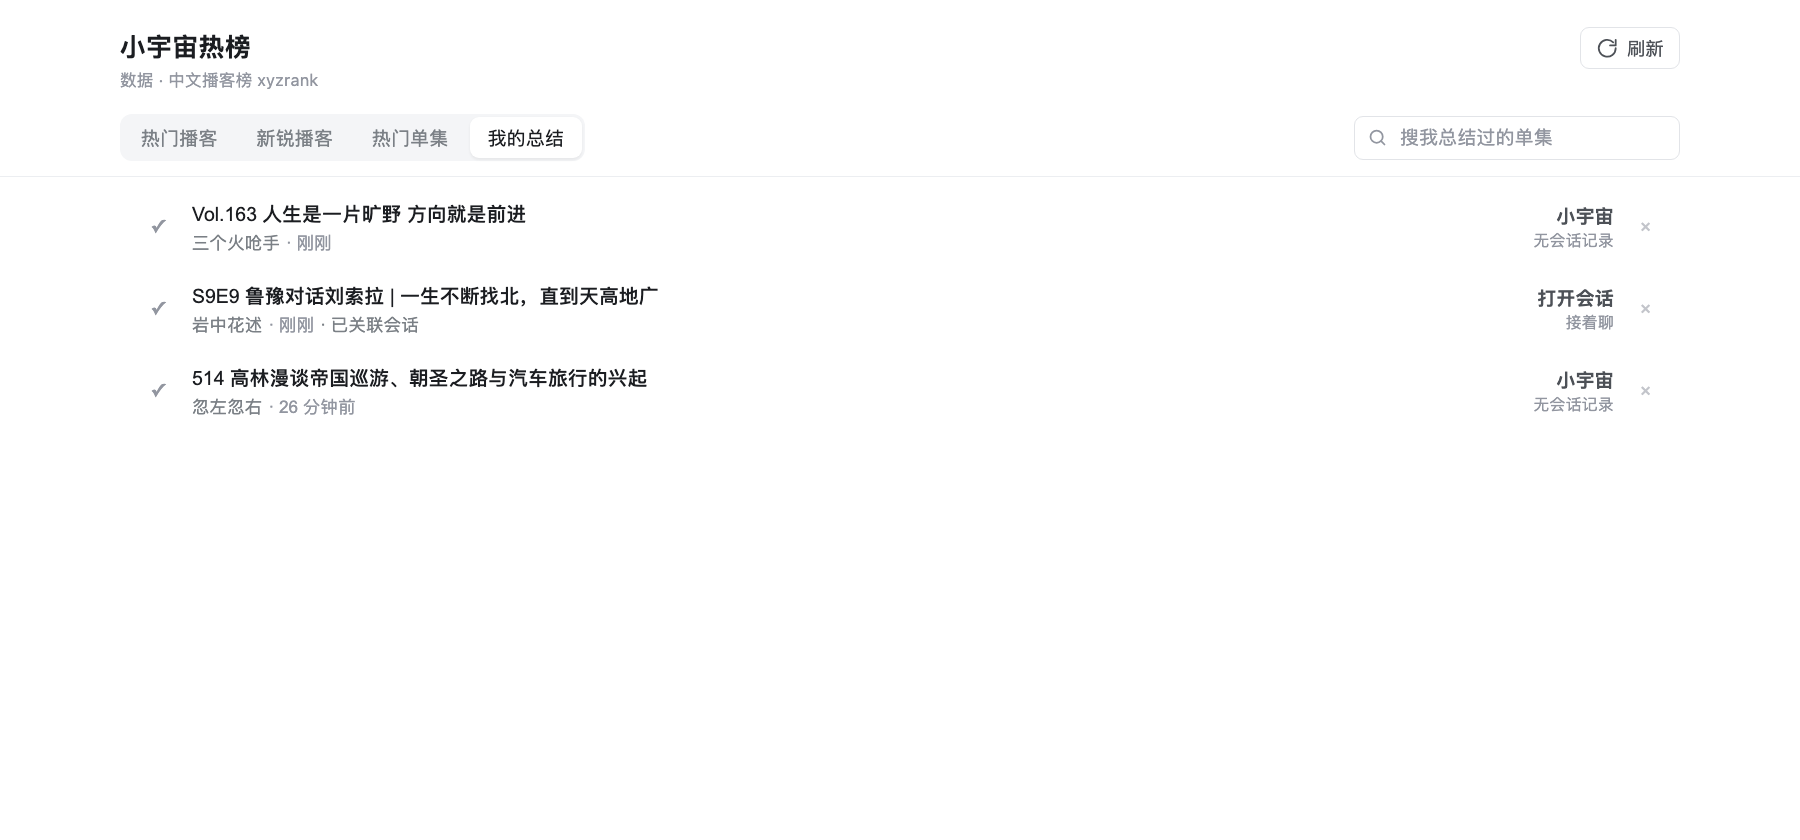
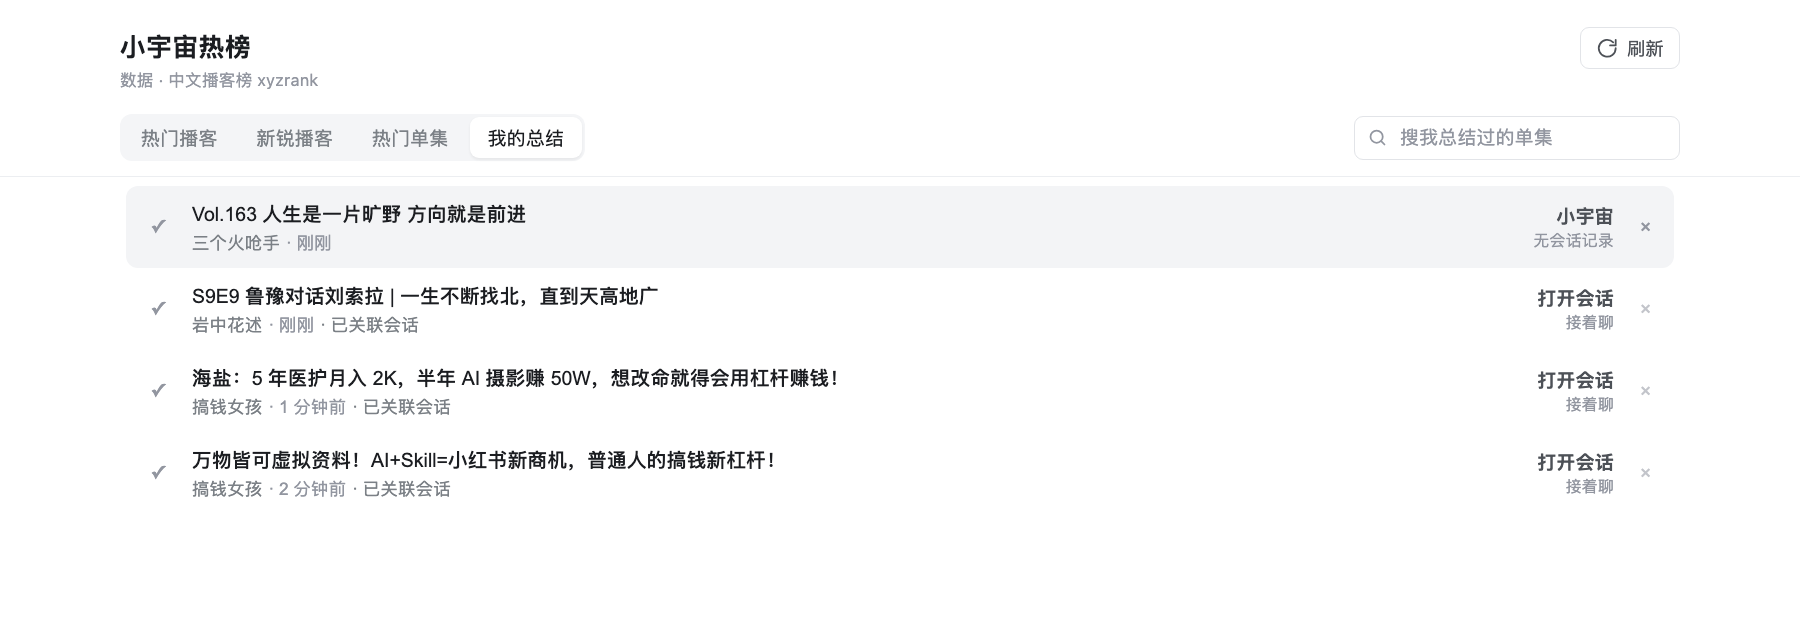
fix(ui): stop native tooltips from covering row hover controls
Rows carried a title attribute, so hovering anywhere over a row (including over the
remove/open icons at the right edge) popped a browser tooltip on top of those icons.
Keep the full-text tooltip on the truncated title span only, and move the rest to
aria-label so keyboard/screen-reader users still get the description.

diff --git a/lib/client.js b/lib/client.js
@@ -155,11 +155,11 @@ function ChannelView({ podcast, data, loading, error, onBack, onRetry, summarize
             type: "button",
             className: "xzr-row",
             onClick: () => summarize({ ...ep, author: podcast?.title ?? data?.title ?? "" }, podcast),
-            title: `\u65B0\u5F00 DSH \u4F1A\u8BDD\u603B\u7ED3:${ep.title}`,
+            "aria-label": `\u65B0\u5F00 DSH \u4F1A\u8BDD\u603B\u7ED3:${ep.title}`,
             children: [
               /* @__PURE__ */ (0, import_jsx_runtime.jsx)("span", { className: "xzr-rank", children: index + 1 }),
               /* @__PURE__ */ (0, import_jsx_runtime.jsxs)("span", { className: "xzr-main", children: [
-                /* @__PURE__ */ (0, import_jsx_runtime.jsx)("span", { className: "xzr-title", children: ep.title }),
+                /* @__PURE__ */ (0, import_jsx_runtime.jsx)("span", { className: "xzr-title", title: ep.title, children: ep.title }),
                 /* @__PURE__ */ (0, import_jsx_runtime.jsxs)("span", { className: "xzr-sub", children: [
                   typeof isDone === "function" && isDone(ep) ? /* @__PURE__ */ (0, import_jsx_runtime.jsx)("span", { className: "xzr-done", children: "\u2713 \u5DF2\u603B\u7ED3" }) : null,
                   formatDay(ep.pubDate) || "\u2014",
@@ -182,7 +182,6 @@ function ChannelView({ podcast, data, loading, error, onBack, onRetry, summarize
             type: "button",
             className: "xzr-ext",
             onClick: () => openExternal(ep.url),
-            title: "\u5728\u5C0F\u5B87\u5B99\u6253\u5F00\u8FD9\u4E00\u96C6",
             "aria-label": "\u5728\u5C0F\u5B87\u5B99\u6253\u5F00\u8FD9\u4E00\u96C6",
             children: /* @__PURE__ */ (0, import_jsx_runtime.jsxs)("svg", { width: "13", height: "13", viewBox: "0 0 24 24", fill: "none", stroke: "currentColor", strokeWidth: "2", strokeLinecap: "round", strokeLinejoin: "round", "aria-hidden": "true", children: [
               /* @__PURE__ */ (0, import_jsx_runtime.jsx)("path", { d: "M14 4h6v6" }),
@@ -507,12 +506,12 @@ function HotPanel({ summarize, openExternal, sessionIds, watchNewSession, openSe
             type: "button",
             className: "xzr-row",
             onClick: () => isEpisode ? summarizeEpisode(item) : openChannel(item),
-            title: isEpisode ? `\u65B0\u5F00 DSH \u4F1A\u8BDD\u603B\u7ED3:${item.title}` : `\u770B ${item.title} \u7684\u5206\u96C6\u5217\u8868`,
+            "aria-label": isEpisode ? `\u65B0\u5F00 DSH \u4F1A\u8BDD\u603B\u7ED3:${item.title}` : `\u770B ${item.title} \u7684\u5206\u96C6\u5217\u8868`,
             children: [
               /* @__PURE__ */ (0, import_jsx_runtime2.jsx)("span", { className: `xzr-rank${item.rank <= 3 ? ` is-top is-${item.rank}` : ""}`, children: item.rank }),
               item.logo ? /* @__PURE__ */ (0, import_jsx_runtime2.jsx)("img", { className: "xzr-logo", src: item.logo, alt: "", loading: "lazy", referrerPolicy: "no-referrer" }) : /* @__PURE__ */ (0, import_jsx_runtime2.jsx)("span", { className: "xzr-logo xzr-logo-empty" }),
               /* @__PURE__ */ (0, import_jsx_runtime2.jsxs)("span", { className: "xzr-main", children: [
-                /* @__PURE__ */ (0, import_jsx_runtime2.jsx)("span", { className: "xzr-title", children: item.title }),
+                /* @__PURE__ */ (0, import_jsx_runtime2.jsx)("span", { className: "xzr-title", title: item.title, children: item.title }),
                 /* @__PURE__ */ (0, import_jsx_runtime2.jsxs)("span", { className: "xzr-sub", children: [
                   libraryIndex.has(keyOf(item)) ? /* @__PURE__ */ (0, import_jsx_runtime2.jsx)("span", { className: "xzr-done", children: "\u2713 \u5DF2\u603B\u7ED3" }) : null,
                   item.author || "\u2014",
@@ -546,7 +545,6 @@ function HotPanel({ summarize, openExternal, sessionIds, watchNewSession, openSe
             type: "button",
             className: "xzr-ext",
             onClick: () => open(item.url),
-            title: "\u5728\u5C0F\u5B87\u5B99\u6253\u5F00\u8FD9\u4E00\u96C6",
             "aria-label": "\u5728\u5C0F\u5B87\u5B99\u6253\u5F00\u8FD9\u4E00\u96C6",
             children: /* @__PURE__ */ (0, import_jsx_runtime2.jsxs)("svg", { width: "13", height: "13", viewBox: "0 0 24 24", fill: "none", stroke: "currentColor", strokeWidth: "2", strokeLinecap: "round", strokeLinejoin: "round", "aria-hidden": "true", children: [
               /* @__PURE__ */ (0, import_jsx_runtime2.jsx)("path", { d: "M14 4h6v6" }),
@@ -597,11 +595,11 @@ function LibraryList({ items, query, openExternal, onRemove, openSession }) {
           if (item.sessionId && typeof openSession === "function" && openSession(item.sessionId)) return;
           openExternal(item.url);
         },
-        title: item.sessionId ? "\u6253\u5F00\u90A3\u6B21\u603B\u7ED3\u4F1A\u8BDD" : item.url || "\u6682\u65E0\u94FE\u63A5",
+        "aria-label": item.sessionId ? `\u6253\u5F00\u90A3\u6B21\u603B\u7ED3\u4F1A\u8BDD:${item.title}` : `\u5728\u5C0F\u5B87\u5B99\u6253\u5F00:${item.title}`,
         children: [
           /* @__PURE__ */ (0, import_jsx_runtime2.jsx)("span", { className: "xzr-rank xzr-rank-done", children: "\u2713" }),
           /* @__PURE__ */ (0, import_jsx_runtime2.jsxs)("span", { className: "xzr-main", children: [
-            /* @__PURE__ */ (0, import_jsx_runtime2.jsx)("span", { className: "xzr-title", children: item.title }),
+            /* @__PURE__ */ (0, import_jsx_runtime2.jsx)("span", { className: "xzr-title", title: item.title, children: item.title }),
             /* @__PURE__ */ (0, import_jsx_runtime2.jsxs)("span", { className: "xzr-sub", children: [
               item.podcast || "\u2014",
               /* @__PURE__ */ (0, import_jsx_runtime2.jsxs)("em", { children: [
@@ -624,7 +622,6 @@ function LibraryList({ items, query, openExternal, onRemove, openSession }) {
         type: "button",
         className: "xzr-ext xzr-ext-left",
         onClick: () => openExternal(item.url),
-        title: "\u5728\u5C0F\u5B87\u5B99\u6253\u5F00\u8FD9\u4E00\u96C6",
         "aria-label": "\u5728\u5C0F\u5B87\u5B99\u6253\u5F00\u8FD9\u4E00\u96C6",
         children: /* @__PURE__ */ (0, import_jsx_runtime2.jsxs)("svg", { width: "13", height: "13", viewBox: "0 0 24 24", fill: "none", stroke: "currentColor", strokeWidth: "2", strokeLinecap: "round", strokeLinejoin: "round", "aria-hidden": "true", children: [
           /* @__PURE__ */ (0, import_jsx_runtime2.jsx)("path", { d: "M14 4h6v6" }),
@@ -639,8 +636,7 @@ function LibraryList({ items, query, openExternal, onRemove, openSession }) {
         type: "button",
         className: "xzr-ext xzr-ext-always",
         onClick: () => onRemove(item.key),
-        title: "\u53D6\u6D88\u6807\u8BB0(\u4E0B\u6B21\u8FD8\u80FD\u91CD\u65B0\u603B\u7ED3)",
-        "aria-label": "\u53D6\u6D88\u6807\u8BB0",
+        "aria-label": `\u53D6\u6D88\u6807\u8BB0:${item.title}`,
         children: "\xD7"
       }
     )

diff --git a/src/client/Panel.jsx b/src/client/Panel.jsx
@@ -351,12 +351,12 @@ export function HotPanel({ summarize, openExternal, sessionIds, watchNewSession,
                   type="button"
                   className="xzr-row"
                   onClick={() => (isEpisode ? summarizeEpisode(item) : openChannel(item))}
-                  title={isEpisode ? `新开 DSH 会话总结:${item.title}` : `看 ${item.title} 的分集列表`}
+                  aria-label={isEpisode ? `新开 DSH 会话总结:${item.title}` : `看 ${item.title} 的分集列表`}
                 >
                   <span className={`xzr-rank${item.rank <= 3 ? ` is-top is-${item.rank}` : ''}`}>{item.rank}</span>
                   {item.logo ? <img className="xzr-logo" src={item.logo} alt="" loading="lazy" referrerPolicy="no-referrer" /> : <span className="xzr-logo xzr-logo-empty" />}
                   <span className="xzr-main">
-                    <span className="xzr-title">{item.title}</span>
+                    <span className="xzr-title" title={item.title}>{item.title}</span>
                     <span className="xzr-sub">
                       {libraryIndex.has(keyOf(item)) ? <span className="xzr-done">✓ 已总结</span> : null}
                       {item.author || '—'}
@@ -380,7 +380,6 @@ export function HotPanel({ summarize, openExternal, sessionIds, watchNewSession,
                     type="button"
                     className="xzr-ext"
                     onClick={() => open(item.url)}
-                    title="在小宇宙打开这一集"
                     aria-label="在小宇宙打开这一集"
                   >
                     <svg width="13" height="13" viewBox="0 0 24 24" fill="none" stroke="currentColor" strokeWidth="2" strokeLinecap="round" strokeLinejoin="round" aria-hidden="true">
@@ -451,11 +450,11 @@ function LibraryList({ items, query, openExternal, onRemove, openSession }) {
               if (item.sessionId && typeof openSession === 'function' && openSession(item.sessionId)) return
               openExternal(item.url)
             }}
-            title={item.sessionId ? '打开那次总结会话' : item.url || '暂无链接'}
+            aria-label={item.sessionId ? `打开那次总结会话:${item.title}` : `在小宇宙打开:${item.title}`}
           >
             <span className="xzr-rank xzr-rank-done">✓</span>
             <span className="xzr-main">
-              <span className="xzr-title">{item.title}</span>
+              <span className="xzr-title" title={item.title}>{item.title}</span>
               <span className="xzr-sub">
                 {item.podcast || '—'}
                 <em>· {formatWhen(item.at)}</em>
@@ -474,7 +473,6 @@ function LibraryList({ items, query, openExternal, onRemove, openSession }) {
               type="button"
               className="xzr-ext xzr-ext-left"
               onClick={() => openExternal(item.url)}
-              title="在小宇宙打开这一集"
               aria-label="在小宇宙打开这一集"
             >
               <svg width="13" height="13" viewBox="0 0 24 24" fill="none" stroke="currentColor" strokeWidth="2" strokeLinecap="round" strokeLinejoin="round" aria-hidden="true">
@@ -488,8 +486,7 @@ function LibraryList({ items, query, openExternal, onRemove, openSession }) {
             type="button"
             className="xzr-ext xzr-ext-always"
             onClick={() => onRemove(item.key)}
-            title="取消标记(下次还能重新总结)"
-            aria-label="取消标记"
+            aria-label={`取消标记:${item.title}`}
           >
             ×
           </button>

diff --git a/src/client/Channel.jsx b/src/client/Channel.jsx
@@ -86,11 +86,11 @@ export function ChannelView({ podcast, data, loading, error, onBack, onRetry, su
                   type="button"
                   className="xzr-row"
                   onClick={() => summarize({ ...ep, author: podcast?.title ?? data?.title ?? '' }, podcast)}
-                  title={`新开 DSH 会话总结:${ep.title}`}
+                  aria-label={`新开 DSH 会话总结:${ep.title}`}
                 >
                   <span className="xzr-rank">{index + 1}</span>
                   <span className="xzr-main">
-                    <span className="xzr-title">{ep.title}</span>
+                    <span className="xzr-title" title={ep.title}>{ep.title}</span>
                     <span className="xzr-sub">
                       {typeof isDone === 'function' && isDone(ep) ? <span className="xzr-done">✓ 已总结</span> : null}
                       {formatDay(ep.pubDate) || '—'}
@@ -109,7 +109,6 @@ export function ChannelView({ podcast, data, loading, error, onBack, onRetry, su
                     type="button"
                     className="xzr-ext"
                     onClick={() => openExternal(ep.url)}
-                    title="在小宇宙打开这一集"
                     aria-label="在小宇宙打开这一集"
                   >
                     <svg width="13" height="13" viewBox="0 0 24 24" fill="none" stroke="currentColor" strokeWidth="2" strokeLinecap="round" strokeLinejoin="round" aria-hidden="true">
